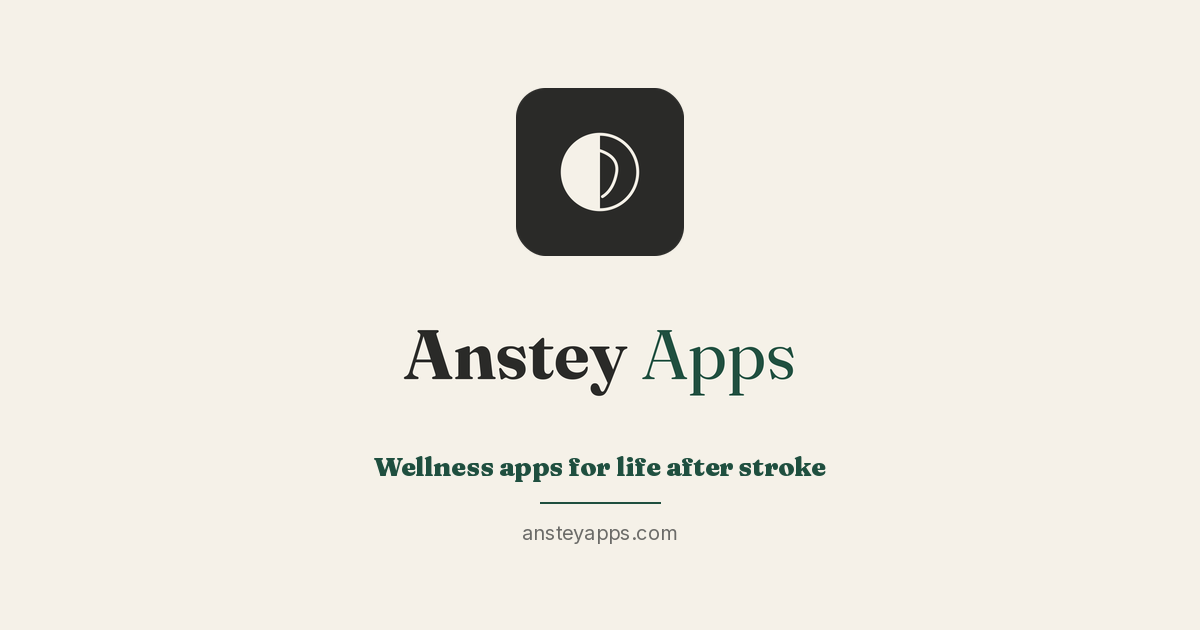
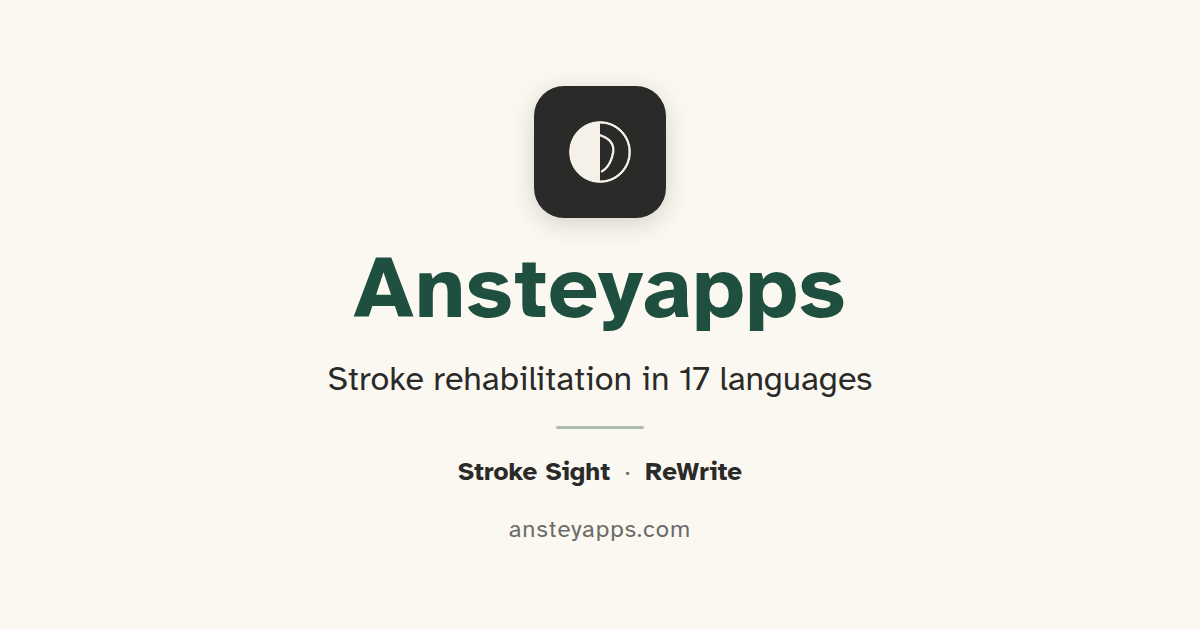
Rebrand social share card: Ansteyapps one word, current tagline and app names; bust link-preview caches

Changed region(s): [[0.2775, 0.1206, 0.74, 0.6333], [0.3083, 0.7238, 0.7092, 0.8746], [0.4625, 0.6635, 0.5242, 0.6937]]

diff --git a/index.html b/index.html
@@ -7,14 +7,14 @@
 <meta name="description" content="Evidence-informed visual field and handwriting rehabilitation apps for adults recovering from stroke. Available in 17 languages, including Welsh, Irish, Canadian French and Arabic.">
 <meta property="og:title" content="Ansteyapps — Stroke Rehabilitation in 17 Languages">
 <meta property="og:description" content="Evidence-informed visual field and handwriting exercises for adults recovering from stroke. Stroke Sight and ReWrite — available in 17 languages.">
-<meta property="og:image" content="https://ansteyapps.com/promo/og-image-1200x630.png">
+<meta property="og:image" content="https://ansteyapps.com/promo/og-image-1200x630.png?v=2">
 <meta property="og:type" content="website">
   <meta property="og:locale" content="en_GB">
 <meta property="og:url" content="https://ansteyapps.com/">
 <meta name="twitter:card" content="summary_large_image">
 <meta name="twitter:title" content="Ansteyapps — Stroke Rehabilitation in 17 Languages">
 <meta name="twitter:description" content="Evidence-informed visual field and handwriting exercises for adults recovering from stroke. Stroke Sight and ReWrite — available in 17 languages.">
-<meta name="twitter:image" content="https://ansteyapps.com/promo/og-image-1200x630.png">
+<meta name="twitter:image" content="https://ansteyapps.com/promo/og-image-1200x630.png?v=2">
 <link rel="icon" href="/favicon.ico" sizes="any">
 <link rel="icon" href="/assets/anstey-apps-icon.svg" type="image/svg+xml">
 <link rel="apple-touch-icon" href="/assets/favicon-180.png">
